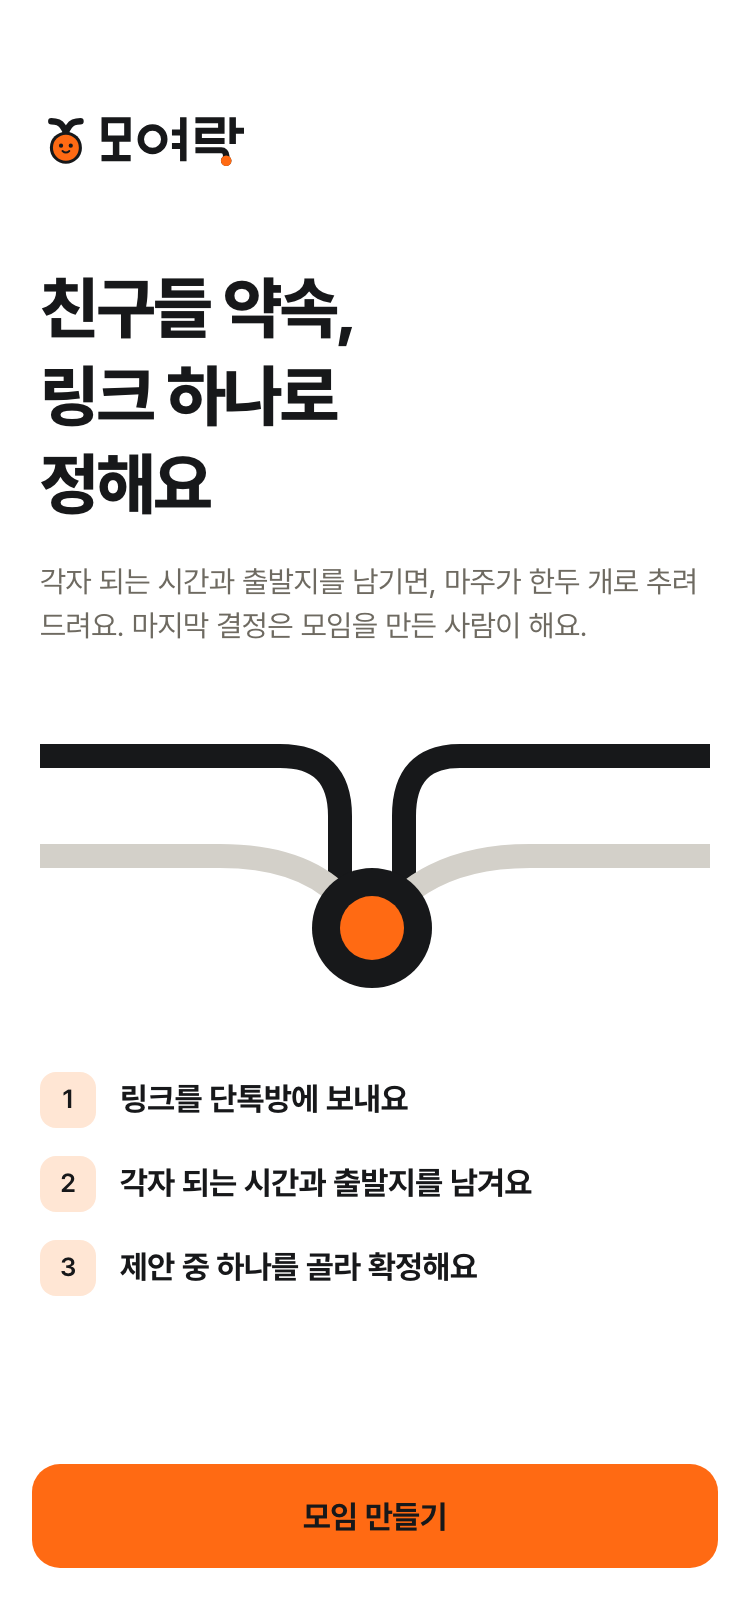
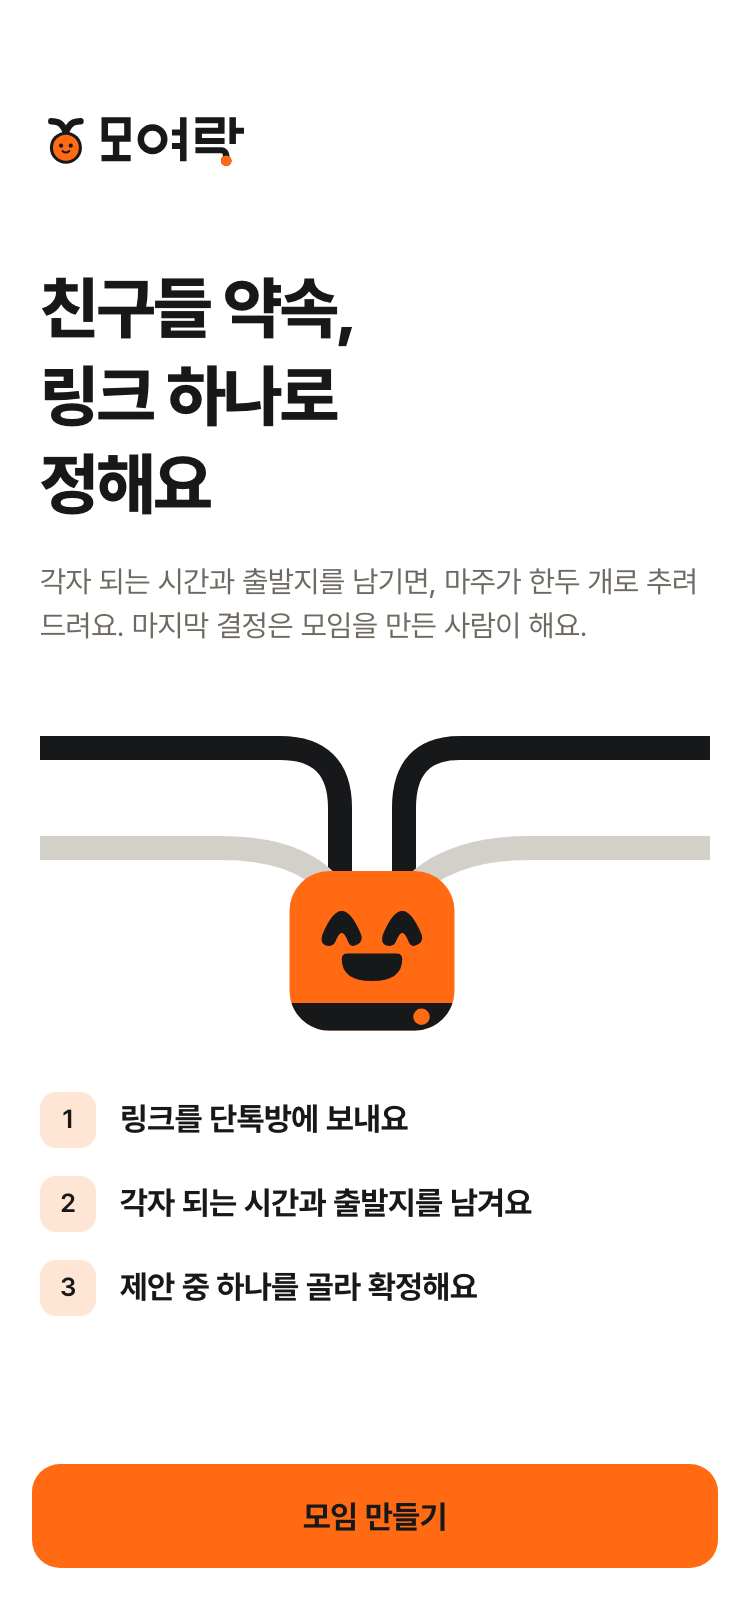
feat(design-v4): 위치 서비스 관점 검토 반영 - 역 목록 지도, 노선 색, 첫 화면 마주
- 토큰에 지하철 노선 색(정보 색, 브랜드와 별도)과 지도 색 추가
- 역 목록 위에 출발지 다섯 곳과 후보 역을 잇는 지도, 노선 배지는 노선 색 점과 잉크 글자
- 첫 화면 그림에서 노선이 모이는 자리를 마주(기쁨)로

Claude-Session: https://claude.ai/code/session_01LcqnJLJ9tmhE7G2jz9EpLE

Changed region(s): [[0.0307, 0.431, 0.9507, 0.8313]]

diff --git a/design/brand-v4/screens/mockups.html b/design/brand-v4/screens/mockups.html
@@ -105,7 +105,9 @@ section.phone { width: 375px; height: 812px; background: var(--color-bg); positi
 .station .rank { width: 24px; height: 24px; border-radius: 7px; font-size: 13px; font-weight: 800; display: grid; place-items: center; background: var(--color-surface-sunken); }
 .station.on .rank { background: var(--color-action); color: var(--color-on-action); }
 .station .nm { font-size: 18px; font-weight: 800; letter-spacing: -0.02em; }
-.station .line { font-size: 12px; font-weight: 700; border: 1.5px solid var(--color-ink-900); border-radius: 99px; padding: 1px 7px; }
+.station .line { font-size: 12px; font-weight: 700; display: inline-flex; align-items: center; gap: 4px; color: var(--color-text); }
+.station .line i { width: 10px; height: 10px; border-radius: 50%; display: inline-block; }
+.map { margin: 14px 20px 6px; border-radius: 16px; overflow: hidden; height: 176px; }
 .station .avg { margin-left: auto; font-size: 14px; color: var(--color-muted); }
 .station .avg b { color: var(--color-text); font-size: 16px; }
 .bars { display: grid; grid-template-columns: 44px 1fr 40px; gap: 6px 8px; align-items: center; font-size: 13px; }
@@ -155,14 +157,15 @@ section.phone { width: 375px; height: 812px; background: var(--color-bg); positi
   <div class="scroll pad" style="padding-top:36px">
     <h1 class="h1" style="font-size:34px">친구들 약속,<br>링크 하나로<br>정해요</h1>
     <p class="sub" style="margin-top:14px">각자 되는 시간과 출발지를 남기면, 마주가 한두 개로 추려 드려요. 마지막 결정은 모임을 만든 사람이 해요.</p>
-    <svg viewBox="0 0 335 150" width="335" height="150" style="margin-top:28px" aria-hidden="true">
-      <path d="M0 26 H120 Q150 26 150 56 V96" fill="none" stroke="var(--color-ink-900)" stroke-width="12" stroke-linecap="round"/>
-      <path d="M335 26 H210 Q182 26 182 56 V96" fill="none" stroke="var(--color-ink-900)" stroke-width="12" stroke-linecap="round"/>
-      <path d="M0 76 H90 Q130 76 150 96" fill="none" stroke="var(--color-ink-300)" stroke-width="12" stroke-linecap="round"/>
-      <path d="M335 76 H245 Q205 76 182 96" fill="none" stroke="var(--color-ink-300)" stroke-width="12" stroke-linecap="round"/>
-      <circle cx="166" cy="112" r="30" fill="var(--color-ink-900)"/>
-      <circle cx="166" cy="112" r="16" fill="var(--color-action)"/>
-    </svg>
+    <div data-meet style="position:relative;width:335px;height:170px;margin-top:24px">
+      <svg viewBox="0 0 335 170" width="335" height="170" aria-hidden="true" style="position:absolute;inset:0">
+        <path d="M0 26 H120 Q150 26 150 56 V92" fill="none" stroke="var(--color-ink-900)" stroke-width="12" stroke-linecap="round"/>
+        <path d="M335 26 H210 Q182 26 182 56 V92" fill="none" stroke="var(--color-ink-900)" stroke-width="12" stroke-linecap="round"/>
+        <path d="M0 76 H90 Q130 76 146 96" fill="none" stroke="var(--color-ink-300)" stroke-width="12" stroke-linecap="round"/>
+        <path d="M335 76 H245 Q205 76 186 96" fill="none" stroke="var(--color-ink-300)" stroke-width="12" stroke-linecap="round"/>
+      </svg>
+      <div style="position:absolute;left:122px;top:82px"><svg data-maju="happy" role="img" aria-label="마주 — 기쁨" width="88" height="88" viewBox="0 0 64 64"><path fill="var(--color-tangerine-500)" d="M16.5 4 H47.5 A14.5 14.5 0 0 1 62 18.5 V47.5 A14.5 14.5 0 0 1 47.5 62 H16.5 A14.5 14.5 0 0 1 2 47.5 V18.5 A14.5 14.5 0 0 1 16.5 4 Z"/><path fill="var(--color-ink-900)" fill-rule="evenodd" d="M2.7159512479097785 52 H61.28404875209022 A14.5 14.5 0 0 1 47.5 62 H16.5 A14.5 14.5 0 0 1 2.7159512479097785 52 Z M47 57 A3 3 0 1 0 53 57 A3 3 0 1 0 47 57 Z"/><path fill="var(--color-ink-900)" d="M14 27 Q21 10 28 27 Q29 30 26 31 Q24 32 23 29 Q21 24 19 29 Q18 32 15 31 Q13 30 14 27 Z M36 27 Q43 10 50 27 Q51 30 48 31 Q46 32 45 29 Q43 24 41 29 Q40 32 37 31 Q35 30 36 27 Z M23 34 H41 Q43 34 43 36 Q43 44 32 44 Q21 44 21 36 Q21 34 23 34 Z"/></svg></div>
+    </div>
     <ol style="list-style:none;margin-top:28px;display:flex;flex-direction:column;gap:14px">
       <li style="display:flex;gap:12px;align-items:center"><span class="chip on num" style="width:28px;justify-content:center;padding:0">1</span><b style="font-size:16px">링크를 단톡방에 보내요</b></li>
       <li style="display:flex;gap:12px;align-items:center"><span class="chip on num" style="width:28px;justify-content:center;padding:0">2</span><b style="font-size:16px">각자 되는 시간과 출발지를 남겨요</b></li>
@@ -280,26 +283,46 @@ section.phone { width: 375px; height: 812px; background: var(--color-bg); positi
       <h1 class="h2" style="margin-top:4px">어디서 만날까요?</h1>
       <p class="sub" style="margin-top:4px">출발지 5곳에서 가운데에 있는 역이에요</p>
     </div>
-    <div style="height:16px"></div>
+    <div data-map class="map" aria-label="출발지와 후보 역 지도">
+      <svg viewBox="0 0 335 176" width="335" height="176">
+        <rect width="335" height="176" fill="var(--color-map-land)"/>
+        <path d="M-10 128 C60 112 110 150 175 132 S280 102 345 118 L345 150 C280 134 230 166 175 160 S60 140 -10 158 Z" fill="var(--color-map-water)"/>
+        <path d="M0 64 H335 M168 0 V176 M40 0 L120 176 M250 0 L300 176" stroke="var(--color-map-road)" stroke-width="6" fill="none"/>
+        <g stroke="var(--color-ink-900)" stroke-width="2" stroke-dasharray="4 4" fill="none">
+          <path d="M44 34 L168 92"/><path d="M296 52 L168 92"/><path d="M262 20 L168 92"/><path d="M58 158 L168 92"/><path d="M116 150 L168 92"/>
+        </g>
+        <g fill="var(--color-white)" stroke="var(--color-ink-400)" stroke-width="3">
+          <circle cx="226" cy="126" r="7"/><circle cx="208" cy="78" r="7"/>
+        </g>
+        <g font-family="Pretendard, sans-serif" font-size="11" font-weight="700" text-anchor="middle">
+          <circle cx="44" cy="34" r="12" fill="var(--color-ink-900)"/><text x="44" y="38" fill="var(--color-white)">현</text>
+          <circle cx="296" cy="52" r="12" fill="var(--color-ink-900)"/><text x="296" y="56" fill="var(--color-white)">서</text>
+          <circle cx="262" cy="20" r="12" fill="var(--color-ink-900)"/><text x="262" y="24" fill="var(--color-white)">지</text>
+          <circle cx="58" cy="158" r="12" fill="var(--color-ink-900)"/><text x="58" y="162" fill="var(--color-white)">민</text>
+          <circle cx="116" cy="150" r="12" fill="var(--color-ink-900)"/><text x="116" y="154" fill="var(--color-white)">준</text>
+        </g>
+        <circle cx="168" cy="92" r="16" fill="var(--color-ink-900)"/><circle cx="168" cy="92" r="9" fill="var(--color-action)"/>
+        <rect x="106" y="56" width="124" height="24" rx="12" fill="var(--color-ink-900)"/>
+        <text x="168" y="72" font-family="Pretendard, sans-serif" font-size="12" font-weight="800" text-anchor="middle" fill="var(--color-white)">녹사평 · 평균 30분</text>
+      </svg>
+    </div>
     <div class="station on">
-      <div class="top"><span class="rank">1</span><span class="nm">녹사평</span><span class="line">6호선</span><span class="avg num">평균 <b>30</b>분</span></div>
+      <div class="top"><span class="rank">1</span><span class="nm">녹사평</span><span class="line"><i style="background:var(--color-line-6)"></i>6호선</span><span class="avg num">평균 <b>30</b>분</span></div>
       <div class="bars num">
         <span class="who">현호</span><span class="track"><i style="width:44%"></i></span><span class="m">22분</span>
         <span class="who">서연</span><span class="track"><i style="width:56%"></i></span><span class="m">28분</span>
-        <span class="who">준호</span><span class="track"><i style="width:62%"></i></span><span class="m">31분</span>
-        <span class="who">지우</span><span class="track"><i style="width:66%"></i></span><span class="m">33분</span>
         <span class="who">민지</span><span class="track"><i style="width:76%"></i></span><span class="m">38분</span>
       </div>
     </div>
     <div class="station">
-      <div class="top"><span class="rank">2</span><span class="nm">옥수</span><span class="line">3호선</span><span class="avg num">평균 <b>31</b>분</span></div>
+      <div class="top"><span class="rank">2</span><span class="nm">옥수</span><span class="line"><i style="background:var(--color-line-3)"></i>3호선 · 경의중앙</span><span class="avg num">평균 <b>31</b>분</span></div>
       <div class="bars num">
         <span class="who">현호</span><span class="track"><i style="width:58%"></i></span><span class="m">29분</span>
         <span class="who">민지</span><span class="track"><i style="width:64%"></i></span><span class="m">32분</span>
       </div>
     </div>
     <div class="station">
-      <div class="top"><span class="rank">3</span><span class="nm">약수</span><span class="line">3호선</span><span class="avg num">평균 <b>33</b>분</span></div>
+      <div class="top"><span class="rank">3</span><span class="nm">약수</span><span class="line"><i style="background:var(--color-line-3)"></i>3호선 <i style="background:var(--color-line-6);margin-left:4px"></i>6호선</span><span class="avg num">평균 <b>33</b>분</span></div>
     </div>
   </div>
   <div class="cta-wrap"><div class="cta" data-cta>녹사평역으로 정하기</div></div>

diff --git a/design/brand-v4/screens/mockups.src.html b/design/brand-v4/screens/mockups.src.html
@@ -105,7 +105,9 @@ section.phone { width: 375px; height: 812px; background: var(--color-bg); positi
 .station .rank { width: 24px; height: 24px; border-radius: 7px; font-size: 13px; font-weight: 800; display: grid; place-items: center; background: var(--color-surface-sunken); }
 .station.on .rank { background: var(--color-action); color: var(--color-on-action); }
 .station .nm { font-size: 18px; font-weight: 800; letter-spacing: -0.02em; }
-.station .line { font-size: 12px; font-weight: 700; border: 1.5px solid var(--color-ink-900); border-radius: 99px; padding: 1px 7px; }
+.station .line { font-size: 12px; font-weight: 700; display: inline-flex; align-items: center; gap: 4px; color: var(--color-text); }
+.station .line i { width: 10px; height: 10px; border-radius: 50%; display: inline-block; }
+.map { margin: 14px 20px 6px; border-radius: 16px; overflow: hidden; height: 176px; }
 .station .avg { margin-left: auto; font-size: 14px; color: var(--color-muted); }
 .station .avg b { color: var(--color-text); font-size: 16px; }
 .bars { display: grid; grid-template-columns: 44px 1fr 40px; gap: 6px 8px; align-items: center; font-size: 13px; }
@@ -155,14 +157,15 @@ section.phone { width: 375px; height: 812px; background: var(--color-bg); positi
   <div class="scroll pad" style="padding-top:36px">
     <h1 class="h1" style="font-size:34px">친구들 약속,<br>링크 하나로<br>정해요</h1>
     <p class="sub" style="margin-top:14px">각자 되는 시간과 출발지를 남기면, 마주가 한두 개로 추려 드려요. 마지막 결정은 모임을 만든 사람이 해요.</p>
-    <svg viewBox="0 0 335 150" width="335" height="150" style="margin-top:28px" aria-hidden="true">
-      <path d="M0 26 H120 Q150 26 150 56 V96" fill="none" stroke="var(--color-ink-900)" stroke-width="12" stroke-linecap="round"/>
-      <path d="M335 26 H210 Q182 26 182 56 V96" fill="none" stroke="var(--color-ink-900)" stroke-width="12" stroke-linecap="round"/>
-      <path d="M0 76 H90 Q130 76 150 96" fill="none" stroke="var(--color-ink-300)" stroke-width="12" stroke-linecap="round"/>
-      <path d="M335 76 H245 Q205 76 182 96" fill="none" stroke="var(--color-ink-300)" stroke-width="12" stroke-linecap="round"/>
-      <circle cx="166" cy="112" r="30" fill="var(--color-ink-900)"/>
-      <circle cx="166" cy="112" r="16" fill="var(--color-action)"/>
-    </svg>
+    <div data-meet style="position:relative;width:335px;height:170px;margin-top:24px">
+      <svg viewBox="0 0 335 170" width="335" height="170" aria-hidden="true" style="position:absolute;inset:0">
+        <path d="M0 26 H120 Q150 26 150 56 V92" fill="none" stroke="var(--color-ink-900)" stroke-width="12" stroke-linecap="round"/>
+        <path d="M335 26 H210 Q182 26 182 56 V92" fill="none" stroke="var(--color-ink-900)" stroke-width="12" stroke-linecap="round"/>
+        <path d="M0 76 H90 Q130 76 146 96" fill="none" stroke="var(--color-ink-300)" stroke-width="12" stroke-linecap="round"/>
+        <path d="M335 76 H245 Q205 76 186 96" fill="none" stroke="var(--color-ink-300)" stroke-width="12" stroke-linecap="round"/>
+      </svg>
+      <div style="position:absolute;left:122px;top:82px">{{maju:happy:88}}</div>
+    </div>
     <ol style="list-style:none;margin-top:28px;display:flex;flex-direction:column;gap:14px">
       <li style="display:flex;gap:12px;align-items:center"><span class="chip on num" style="width:28px;justify-content:center;padding:0">1</span><b style="font-size:16px">링크를 단톡방에 보내요</b></li>
       <li style="display:flex;gap:12px;align-items:center"><span class="chip on num" style="width:28px;justify-content:center;padding:0">2</span><b style="font-size:16px">각자 되는 시간과 출발지를 남겨요</b></li>
@@ -280,26 +283,46 @@ section.phone { width: 375px; height: 812px; background: var(--color-bg); positi
       <h1 class="h2" style="margin-top:4px">어디서 만날까요?</h1>
       <p class="sub" style="margin-top:4px">출발지 5곳에서 가운데에 있는 역이에요</p>
     </div>
-    <div style="height:16px"></div>
+    <div data-map class="map" aria-label="출발지와 후보 역 지도">
+      <svg viewBox="0 0 335 176" width="335" height="176">
+        <rect width="335" height="176" fill="var(--color-map-land)"/>
+        <path d="M-10 128 C60 112 110 150 175 132 S280 102 345 118 L345 150 C280 134 230 166 175 160 S60 140 -10 158 Z" fill="var(--color-map-water)"/>
+        <path d="M0 64 H335 M168 0 V176 M40 0 L120 176 M250 0 L300 176" stroke="var(--color-map-road)" stroke-width="6" fill="none"/>
+        <g stroke="var(--color-ink-900)" stroke-width="2" stroke-dasharray="4 4" fill="none">
+          <path d="M44 34 L168 92"/><path d="M296 52 L168 92"/><path d="M262 20 L168 92"/><path d="M58 158 L168 92"/><path d="M116 150 L168 92"/>
+        </g>
+        <g fill="var(--color-white)" stroke="var(--color-ink-400)" stroke-width="3">
+          <circle cx="226" cy="126" r="7"/><circle cx="208" cy="78" r="7"/>
+        </g>
+        <g font-family="Pretendard, sans-serif" font-size="11" font-weight="700" text-anchor="middle">
+          <circle cx="44" cy="34" r="12" fill="var(--color-ink-900)"/><text x="44" y="38" fill="var(--color-white)">현</text>
+          <circle cx="296" cy="52" r="12" fill="var(--color-ink-900)"/><text x="296" y="56" fill="var(--color-white)">서</text>
+          <circle cx="262" cy="20" r="12" fill="var(--color-ink-900)"/><text x="262" y="24" fill="var(--color-white)">지</text>
+          <circle cx="58" cy="158" r="12" fill="var(--color-ink-900)"/><text x="58" y="162" fill="var(--color-white)">민</text>
+          <circle cx="116" cy="150" r="12" fill="var(--color-ink-900)"/><text x="116" y="154" fill="var(--color-white)">준</text>
+        </g>
+        <circle cx="168" cy="92" r="16" fill="var(--color-ink-900)"/><circle cx="168" cy="92" r="9" fill="var(--color-action)"/>
+        <rect x="106" y="56" width="124" height="24" rx="12" fill="var(--color-ink-900)"/>
+        <text x="168" y="72" font-family="Pretendard, sans-serif" font-size="12" font-weight="800" text-anchor="middle" fill="var(--color-white)">녹사평 · 평균 30분</text>
+      </svg>
+    </div>
     <div class="station on">
-      <div class="top"><span class="rank">1</span><span class="nm">녹사평</span><span class="line">6호선</span><span class="avg num">평균 <b>30</b>분</span></div>
+      <div class="top"><span class="rank">1</span><span class="nm">녹사평</span><span class="line"><i style="background:var(--color-line-6)"></i>6호선</span><span class="avg num">평균 <b>30</b>분</span></div>
       <div class="bars num">
         <span class="who">현호</span><span class="track"><i style="width:44%"></i></span><span class="m">22분</span>
         <span class="who">서연</span><span class="track"><i style="width:56%"></i></span><span class="m">28분</span>
-        <span class="who">준호</span><span class="track"><i style="width:62%"></i></span><span class="m">31분</span>
-        <span class="who">지우</span><span class="track"><i style="width:66%"></i></span><span class="m">33분</span>
         <span class="who">민지</span><span class="track"><i style="width:76%"></i></span><span class="m">38분</span>
       </div>
     </div>
     <div class="station">
-      <div class="top"><span class="rank">2</span><span class="nm">옥수</span><span class="line">3호선</span><span class="avg num">평균 <b>31</b>분</span></div>
+      <div class="top"><span class="rank">2</span><span class="nm">옥수</span><span class="line"><i style="background:var(--color-line-3)"></i>3호선 · 경의중앙</span><span class="avg num">평균 <b>31</b>분</span></div>
       <div class="bars num">
         <span class="who">현호</span><span class="track"><i style="width:58%"></i></span><span class="m">29분</span>
         <span class="who">민지</span><span class="track"><i style="width:64%"></i></span><span class="m">32분</span>
       </div>
     </div>
     <div class="station">
-      <div class="top"><span class="rank">3</span><span class="nm">약수</span><span class="line">3호선</span><span class="avg num">평균 <b>33</b>분</span></div>
+      <div class="top"><span class="rank">3</span><span class="nm">약수</span><span class="line"><i style="background:var(--color-line-3)"></i>3호선 <i style="background:var(--color-line-6);margin-left:4px"></i>6호선</span><span class="avg num">평균 <b>33</b>분</span></div>
     </div>
   </div>
   <div class="cta-wrap"><div class="cta" data-cta>녹사평역으로 정하기</div></div>

diff --git a/app/src/styles/tokens.css b/app/src/styles/tokens.css
@@ -26,6 +26,20 @@
   --color-warning: #9A6000;
   --color-danger: #B3261E;
   --color-danger-soft: #FBEAE8;
+  --color-line-1: #0052A4;
+  --color-line-2: #00A84D;
+  --color-line-3: #EF7C1C;
+  --color-line-4: #00A5DE;
+  --color-line-5: #996CAC;
+  --color-line-6: #CD7C2F;
+  --color-line-7: #747F00;
+  --color-line-8: #E6186C;
+  --color-line-9: #BDB092;
+  --color-line-gyeongui: #77C4A3;
+  --color-line-sinbundang: #D4003B;
+  --color-map-land: #F2F1EC;
+  --color-map-road: #FFFFFF;
+  --color-map-water: #D6E4EA;
   --font-sans: Pretendard, -apple-system, BlinkMacSystemFont, "Apple SD Gothic Neo", sans-serif;
   --spacing: 4px;
   --radius-sm: 8px;

diff --git a/design/brand-v4/screens/tokens.vars.css b/design/brand-v4/screens/tokens.vars.css
@@ -26,6 +26,20 @@
   --color-warning: #9A6000;
   --color-danger: #B3261E;
   --color-danger-soft: #FBEAE8;
+  --color-line-1: #0052A4;
+  --color-line-2: #00A84D;
+  --color-line-3: #EF7C1C;
+  --color-line-4: #00A5DE;
+  --color-line-5: #996CAC;
+  --color-line-6: #CD7C2F;
+  --color-line-7: #747F00;
+  --color-line-8: #E6186C;
+  --color-line-9: #BDB092;
+  --color-line-gyeongui: #77C4A3;
+  --color-line-sinbundang: #D4003B;
+  --color-map-land: #F2F1EC;
+  --color-map-road: #FFFFFF;
+  --color-map-water: #D6E4EA;
   --font-sans: Pretendard, -apple-system, BlinkMacSystemFont, "Apple SD Gothic Neo", sans-serif;
   --spacing: 4px;
   --radius-sm: 8px;

diff --git a/design/brand-v4/tokens.css b/design/brand-v4/tokens.css
@@ -26,6 +26,20 @@
   --color-warning: #9A6000;
   --color-danger: #B3261E;
   --color-danger-soft: #FBEAE8;
+  --color-line-1: #0052A4;
+  --color-line-2: #00A84D;
+  --color-line-3: #EF7C1C;
+  --color-line-4: #00A5DE;
+  --color-line-5: #996CAC;
+  --color-line-6: #CD7C2F;
+  --color-line-7: #747F00;
+  --color-line-8: #E6186C;
+  --color-line-9: #BDB092;
+  --color-line-gyeongui: #77C4A3;
+  --color-line-sinbundang: #D4003B;
+  --color-map-land: #F2F1EC;
+  --color-map-road: #FFFFFF;
+  --color-map-water: #D6E4EA;
   --font-sans: Pretendard, -apple-system, BlinkMacSystemFont, "Apple SD Gothic Neo", sans-serif;
   --spacing: 4px;
   --radius-sm: 8px;
